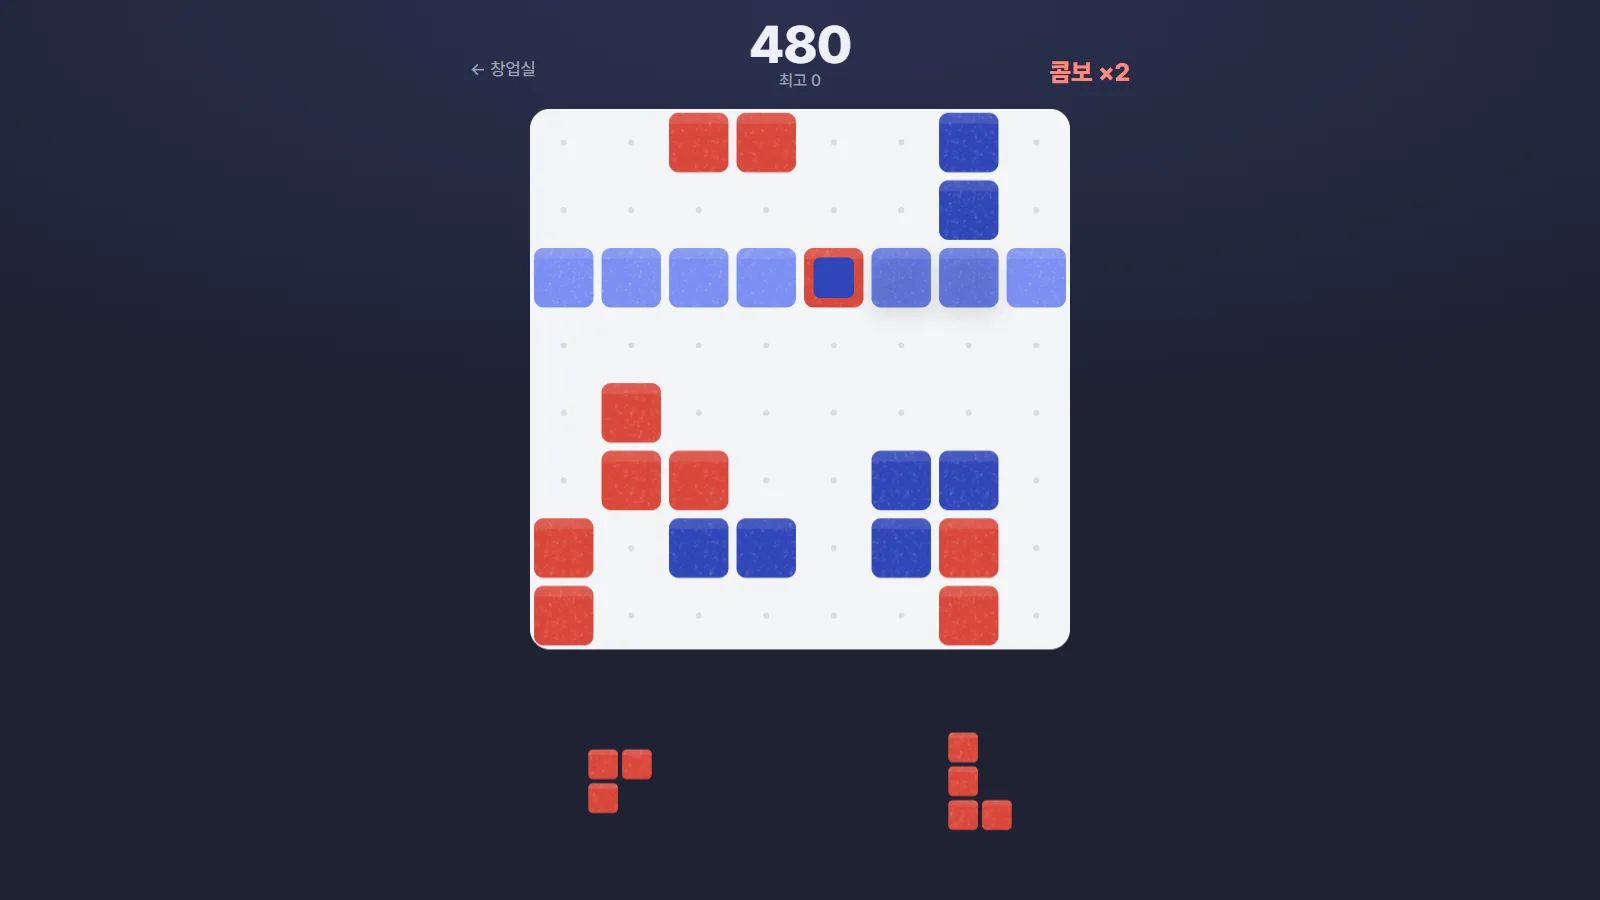
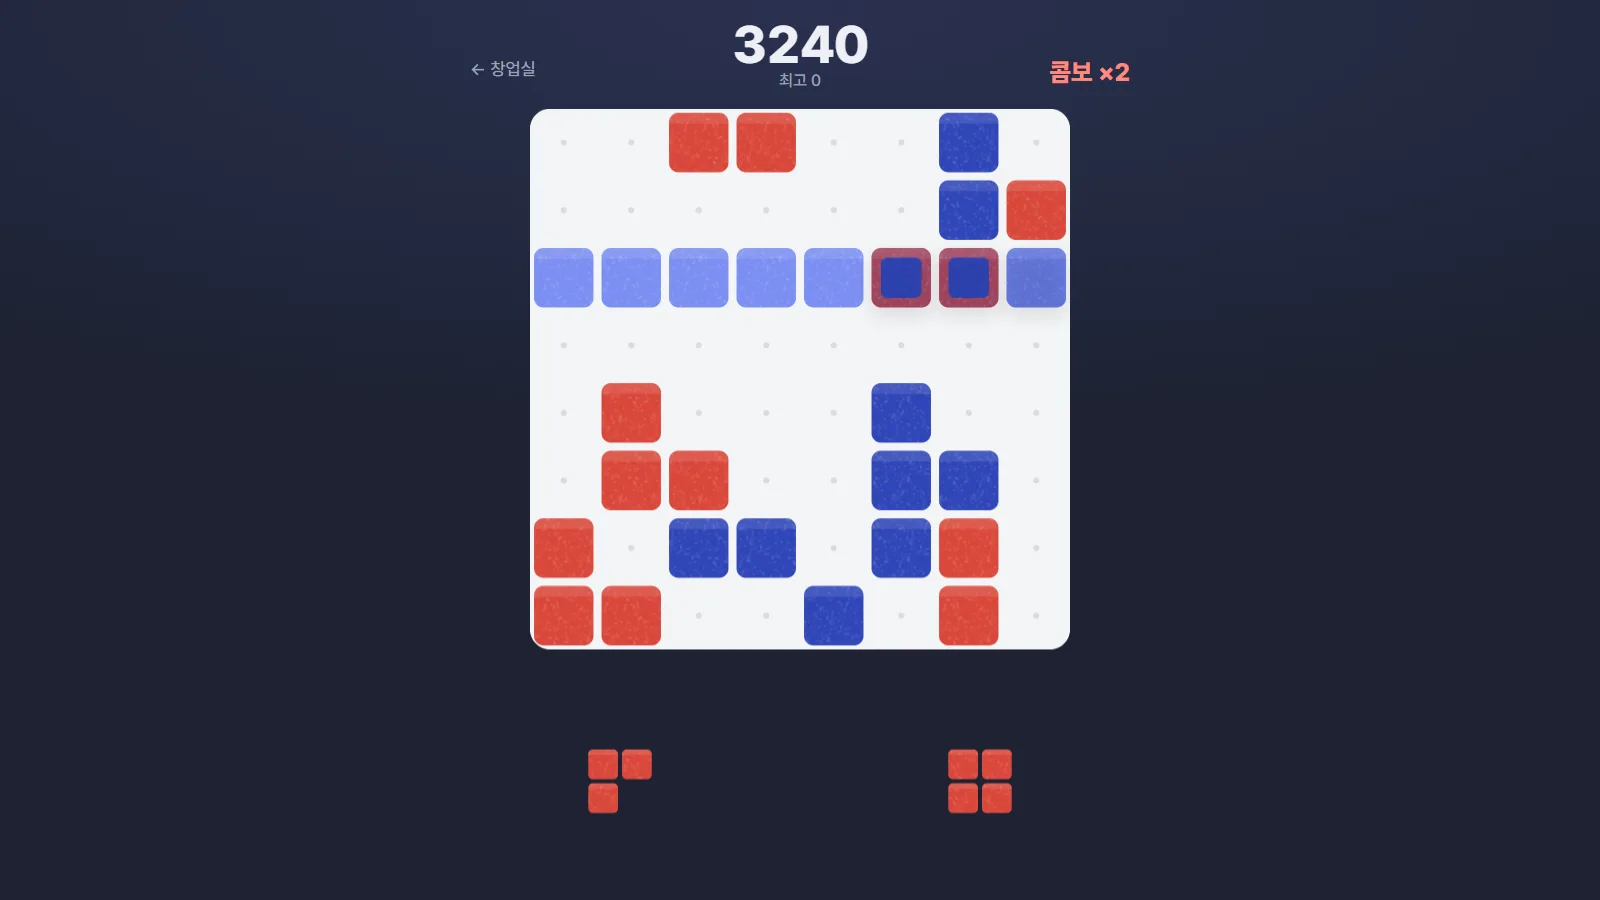
뒤집기 도장: 덧찍기 규칙으로 바꿈, 점수 10배
- 도장 색은 정해져 나옴(누르면 뒤집기 없앰) — 한 색만 찍는 꼼수가 안 됨
- 빈칸이나 다른 색 칸 위에 찍을 수 있고, 덮인 다른 색은 내 색으로 뒤집힘
- 같은 색 위엔 못 찍고, 빈칸이 한 칸은 끼어야 함 → 판이 막히면 끝
- 한 색으로 꽉 찬 줄만 지워짐, 칸 10점·줄 100/300/600…×콤보
- 못 찍는 자리는 걸리는 같은 색 칸에 흰 X 표시, 따라 하기 3단계 새로
- 실제 페이지 자동 플레이: 생각하는 봇 평균 5,428(47~162수), 막 놓기 1,076(19~34수), 10판 모두 막혀서 끝남

diff --git a/stamp/index.html b/stamp/index.html
@@ -4,7 +4,7 @@
 <meta charset="utf-8">
 <meta name="viewport" content="width=device-width,initial-scale=1,viewport-fit=cover">
 <title>뒤집기 도장</title>
-<meta name="description" content="누르면 색이 뒤집히는 도장으로 한 줄을 한 색으로 채워 지우는 퍼즐. 찍으면 맞닿은 칸도 내 색으로 물든다">
+<meta name="description" content="다른 색 위에 찍으면 내 색으로 뒤집히는 도장으로, 한 줄을 한 색으로 채워 지우는 퍼즐">
 <link rel="stylesheet" href="https://cdn.jsdelivr.net/gh/orioncactus/pretendard@v1.3.9/dist/web/variable/pretendardvariable-dynamic-subset.min.css">
 <style>
 :root { --bg: #1d2232; --paper: #f3f4f6; --blue: #2f45b8; --red: #d9473a; --on: #eef0f6; --soft: #9aa1b6 }
@@ -66,28 +66,29 @@ const norm = c => { const mx = Math.min(...c.map(p => p[0])), my = Math.min(...c
 const SHAPES = [], seen = new Set();
 for (const b of BASE) { let c = b; for (let r = 0; r < 4; r++) { c = norm(c.map(([x, y]) => [-y, x])); const k = JSON.stringify(c); if (!seen.has(k)) { seen.add(k); SHAPES.push(c) } } }
 const wOf = s => Math.max(...s.map(p => p[0])) + 1, hOf = s => Math.max(...s.map(p => p[1])) + 1;
-const newPiece = () => ({ s: SHAPES[Math.random() * SHAPES.length | 0], c: 1 + (Math.random() * 2 | 0), t: 0 });
+const newPiece = () => ({ s: SHAPES[Math.random() * SHAPES.length | 0], c: 1 + (Math.random() * 2 | 0) });
 
 // grid: 0 빈칸, 1 파랑, 2 빨강
 let grid, hand, score = 0, combo = 0, since = 0, playing = false, best = 0, tut = 0, target = null;
 let S = 40, TRAY = 0, drag = null, fx = [], pops = [], flash = [], texts = [];
-try { best = +localStorage.getItem("stamp2-best") || 0 } catch {}
+try { best = +localStorage.getItem("stamp3-best") || 0 } catch {}
 $("best").textContent = "최고 " + best;
 
-const canPlace = (s, gx, gy) => gx >= 0 && gy >= 0 && gx + wOf(s) <= N && gy + hOf(s) <= N && s.every(([x, y]) => !grid[(gy + y) * N + gx + x]);
-function fitsAnywhere(s) {
-  for (let gy = 0; gy <= N - hOf(s); gy++) for (let gx = 0; gx <= N - wOf(s); gx++) if (canPlace(s, gx, gy)) return true;
+// 찍을 수 있는 자리: 빈칸이나 다른 색 칸 위(같은 색 위는 안 됨), 빈칸이 한 칸은 끼어야 함
+function canPlace(p, gx, gy) {
+  if (gx < 0 || gy < 0 || gx + wOf(p.s) > N || gy + hOf(p.s) > N) return false;
+  let empty = 0;
+  for (const [x, y] of p.s) { const v = grid[(gy + y) * N + gx + x]; if (v === p.c) return false; if (!v) empty++ }
+  return empty > 0;
+}
+function fitsAnywhere(p) {
+  for (let gy = 0; gy <= N - hOf(p.s); gy++) for (let gx = 0; gx <= N - wOf(p.s); gx++) if (canPlace(p, gx, gy)) return true;
   return false;
 }
-// 이 자리에 찍으면: 맞닿은 다른 색 칸이 내 색으로 물들고, 한 색으로 꽉 찬 줄이 지워진다
+// 이 자리에 찍으면: 덮인 다른 색 칸은 내 색으로 뒤집히고, 한 색으로 꽉 찬 줄이 지워진다
 function tryPlace(p, gx, gy) {
-  const g = grid.slice(), own = new Set(p.s.map(([x, y]) => (gy + y) * N + gx + x)), dyed = [];
-  own.forEach(k => g[k] = p.c);
-  for (const [x, y] of p.s) for (const [dx, dy] of [[1, 0], [-1, 0], [0, 1], [0, -1]]) {
-    const X = gx + x + dx, Y = gy + y + dy, k = Y * N + X;
-    if (X < 0 || Y < 0 || X >= N || Y >= N || own.has(k) || !g[k] || g[k] === p.c) continue;
-    g[k] = p.c; dyed.push(k);
-  }
+  const g = grid.slice(), own = [], dyed = [];
+  for (const [x, y] of p.s) { const k = (gy + y) * N + gx + x; (g[k] ? dyed : own).push(k); g[k] = p.c }
   const rows = [], cols = [];
   for (let i = 0; i < N; i++) {
     let r = g[i * N], c = g[i];
@@ -97,7 +98,7 @@ function tryPlace(p, gx, gy) {
   return { g, rows, cols, dyed, own };
 }
 
-const LINE = [0, 10, 30, 60, 100, 150, 210];
+const LINE = [0, 100, 300, 600, 1000, 1500, 2100];
 function place(i, gx, gy) {
   const p = hand[i], { g, rows, cols, dyed, own } = tryPlace(p, gx, gy), now = performance.now();
   own.forEach(k => fx.push({ k, kind: "stamp", c: p.c, t0: now }));
@@ -109,7 +110,7 @@ function place(i, gx, gy) {
   rows.forEach(r => flash.push({ r, t0: now + wait })); cols.forEach(c => flash.push({ c, t0: now + wait }));
   grid = g; hand[i] = null;
   const n = rows.length + cols.length;
-  let pts = p.s.length;
+  let pts = 10 * p.s.length;
   if (n) {
     if (!tut) combo++; since = 0;
     const got = LINE[Math.min(n, 6)] * Math.max(1, combo);
@@ -124,7 +125,7 @@ function place(i, gx, gy) {
   $("combo").classList.toggle("on", combo > 1);
   if (tut) return tutNext();
   if (hand.every(h => !h)) hand = [newPiece(), newPiece(), newPiece()];
-  if (!hand.some(h => h && fitsAnywhere(h.s))) { playing = false; setTimeout(end, 1000) }
+  if (!hand.some(h => h && fitsAnywhere(h))) { playing = false; setTimeout(end, 1000) }
 }
 
 // 그리기
@@ -152,7 +153,7 @@ function hoverCell() {
   let gx = Math.round(left / S), gy = Math.round(top / S);
   if (gx < -1 || gy < -1 || gx > N - w + 1 || gy > N - h + 1) return null;
   gx = Math.max(0, Math.min(N - w, gx)); gy = Math.max(0, Math.min(N - h, gy));
-  const ok = canPlace(s, gx, gy) && (!target || (gx === target.gx && gy === target.gy && hand[drag.i].c === target.c));
+  const ok = canPlace(hand[drag.i], gx, gy) && (!target || (gx === target.gx && gy === target.gy));
   return { gx, gy, ok };
 }
 function slotRect(i) { const w = N * S / 3; return [i * w, N * S + S * .5, w, TRAY] }
@@ -183,8 +184,9 @@ function draw(now) {
   }
   if (hv) for (const [x, y] of hand[drag.i].s) {
     const X = (hv.gx + x) * S, Y = (hv.gy + y) * S;
-    if (!hv.ok) { ctx.strokeStyle = C.warn; ctx.lineWidth = 3; rr(X + 4, Y + 4, S - 8, S - 8, S * .14); ctx.stroke(); continue }
-    if (!willClear.has((hv.gy + y) * N + hv.gx + x)) inkCell(X, Y, S, INK[hand[drag.i].c], .4);
+    const k = (hv.gy + y) * N + hv.gx + x;
+    if (!hv.ok) { ctx.strokeStyle = C.warn; ctx.lineWidth = 3; rr(X + 4, Y + 4, S - 8, S - 8, S * .14); ctx.stroke(); if (grid[k] === hand[drag.i].c) { const m = S * .3; ctx.strokeStyle = "#fff"; ctx.lineWidth = Math.max(3, S * .1); ctx.lineCap = "round"; ctx.beginPath(); ctx.moveTo(X + m, Y + m); ctx.lineTo(X + S - m, Y + S - m); ctx.moveTo(X + S - m, Y + m); ctx.lineTo(X + m, Y + S - m); ctx.stroke() } continue }
+    if (!willClear.has(k) && !willDye.has(k)) inkCell(X, Y, S, INK[hand[drag.i].c], .4);
   }
   flash = flash.filter(f => now - f.t0 < 420);
   for (const f of flash) {
@@ -206,12 +208,11 @@ function draw(now) {
     if (t.sub) { ctx.font = `800 ${S * .4}px Pretendard, system-ui, sans-serif`; ctx.strokeText(t.sub, X, Y + S * .6); ctx.fillStyle = INK[2]; ctx.fillText(t.sub, X, Y + S * .6) }
     ctx.globalAlpha = 1;
   }
-  // 조각 칸: 누르면 색이 뒤집히고, 어디에도 못 놓는 조각은 흐리게
+  // 조각 칸: 어디에도 못 놓는 조각은 흐리게
   for (let i = 0; i < 3; i++) {
     const p = hand[i]; if (!p || (drag && drag.moved && drag.i === i)) continue;
-    const [sx, sy, sw, sh] = slotRect(i), cs = S * .5, w = wOf(p.s) * cs, h = hOf(p.s) * cs, a = fitsAnywhere(p.s) ? 1 : .28;
-    const t = Math.min(1, (now - p.t) / 260), col = t < .5 && p.from ? INK[p.from] : INK[p.c], sq = Math.abs(Math.cos(t * Math.PI));
-    for (const [x, y] of p.s) inkCell(sx + (sw - w) / 2 + x * cs, sy + (sh - h) / 2 + y * cs, cs, col, a, 1, t < 1 ? sq : 1);
+    const [sx, sy, sw, sh] = slotRect(i), cs = S * .5, w = wOf(p.s) * cs, h = hOf(p.s) * cs, a = fitsAnywhere(p) ? 1 : .28;
+    for (const [x, y] of p.s) inkCell(sx + (sw - w) / 2 + x * cs, sy + (sh - h) / 2 + y * cs, cs, INK[p.c], a);
   }
   if (drag && drag.moved) {
     const p = hand[drag.i], w = wOf(p.s), h = hOf(p.s);
@@ -235,7 +236,7 @@ function size() {
 }
 addEventListener("resize", size);
 
-// 조각 칸을 톡 누르면 색 뒤집기, 끌면 놓기
+// 조각 칸을 끌어 놓기
 const pos = e => { const r = cv.getBoundingClientRect(); return [e.clientX - r.left, e.clientY - r.top] };
 cv.addEventListener("pointerdown", e => {
   if (!playing) return;
@@ -258,37 +259,36 @@ cv.addEventListener("pointerup", () => {
   if (!drag) return;
   const d = drag, hv = hoverCell();
   drag = null;
-  if (!d.moved) { const p = hand[d.i]; p.from = p.c; p.c = 3 - p.c; p.t = performance.now(); if (tut === 2) tip("이제 빈칸에 찍어 줄을 채워 보세요"); return }
   if (hv && hv.ok && playing) place(d.i, hv.gx, hv.gy);
 });
 cv.addEventListener("pointercancel", () => drag = null);
 
 // 처음 한 번: 세 수를 따라 해 보며 규칙을 익힌다
-const H3 = [[0, 0], [1, 0], [2, 0]], ONE = [[0, 0]];
+const H3 = [[0, 0], [1, 0], [2, 0]];
 function tip(t) { $("tip").textContent = t || ""; $("tip").hidden = !t }
 function tutStep(n) {
   tut = n; grid = new Array(N * N).fill(0);
   if (n === 1) {
     [0, 1, 2, 6, 7].forEach(x => grid[4 * N + x] = 1);
-    hand = [null, { s: H3, c: 1, t: 0 }, null]; target = { i: 1, gx: 3, gy: 4, c: 1 };
+    hand = [null, { s: H3, c: 1 }, null]; target = { i: 1, gx: 3, gy: 4 };
     tip("한 줄을 한 색으로 채우면 지워져요");
   } else if (n === 2) {
-    [0, 1, 2, 3, 4].forEach(x => grid[4 * N + x] = 2);
-    hand = [null, { s: H3, c: 1, t: 0 }, null]; target = { i: 1, gx: 5, gy: 4, c: 2 };
-    tip("도장을 톡 누르면 색이 뒤집혀요");
+    [0, 1, 2, 3, 4].forEach(x => grid[4 * N + x] = 1); grid[4 * N + 5] = grid[4 * N + 6] = 2;
+    hand = [null, { s: H3, c: 1 }, null]; target = { i: 1, gx: 5, gy: 4 };
+    tip("다른 색 위에 찍으면 내 색으로 뒤집혀요");
   } else {
-    [0, 1, 2, 4, 5, 6, 7].forEach(x => grid[4 * N + x] = 1); grid[4 * N + 2] = 2;
-    hand = [null, { s: ONE, c: 1, t: 0 }, null]; target = { i: 1, gx: 3, gy: 4, c: 1 };
-    tip("찍으면 맞닿은 칸도 내 색으로 물들어요");
+    [0, 1, 2, 3, 4].forEach(x => grid[4 * N + x] = 2); grid[4 * N + 5] = grid[4 * N + 6] = 1;
+    hand = [null, { s: H3, c: 2 }, null]; target = { i: 1, gx: 5, gy: 4 };
+    tip("같은 색 위엔 못 찍고, 빈칸이 한 칸은 끼어야 해요");
   }
 }
 function tutNext() {
   if (tut < 3) { const n = tut + 1; tut = 9; return setTimeout(() => tutStep(n), 1000) }
   tut = 0; target = null; playing = false;
-  try { localStorage.setItem("stamp2-tut", 1) } catch {}
+  try { localStorage.setItem("stamp3-tut", 1) } catch {}
   setTimeout(() => {
     tip("");
-    menu(`<p style="color:var(--on);font-weight:700">색이 섞인 채 꽉 찬 줄은 안 지워져요.<br>놓을 곳이 없으면 끝나요.</p><button id="go">시작</button>`);
+    menu(`<p style="color:var(--on);font-weight:700">색이 섞인 줄은 안 지워져요.<br>놓을 곳이 없으면 끝나요.</p><button id="go">시작</button>`);
   }, 1000);
 }
 
@@ -310,16 +310,16 @@ function menu(html) {
 }
 function end() {
   playing = false; drag = null;
-  if (score > best) { best = score; try { localStorage.setItem("stamp2-best", best) } catch {} }
+  if (score > best) { best = score; try { localStorage.setItem("stamp3-best", best) } catch {} }
   $("best").textContent = "최고 " + best;
   menu(`<p style="color:var(--on);font-weight:700">놓을 곳이 없어요</p><div class="big">${score}</div><p>최고 ${best}</p><button id="go">다시</button>`);
 }
 
 let learned = false;
-try { learned = !!localStorage.getItem("stamp2-tut") } catch {}
+try { learned = !!localStorage.getItem("stamp3-tut") } catch {}
 size();
 grid = new Array(N * N).fill(0); hand = [null, null, null];
-menu(`<h1>뒤집기 <i>도</i><span>장</span></h1><p>한 줄을 한 색으로 채우면 지워져요. 도장은 누르면 색이 뒤집혀요</p><button id="go">시작</button>${learned ? '<button class="link" id="how">방법 다시 보기</button>' : ""}`);
+menu(`<h1>뒤집기 <i>도</i><span>장</span></h1><p>한 줄을 한 색으로 채우면 지워져요.<br>다른 색 위에 찍으면 내 색으로 뒤집혀요</p><button id="go">시작</button>${learned ? '<button class="link" id="how">방법 다시 보기</button>' : ""}`);
 if (!learned) $("go").onclick = lesson;
 requestAnimationFrame(loop);
 </script>

diff --git a/index.html b/index.html
@@ -314,7 +314,7 @@ figcaption { margin-top: 10px; color: var(--muted) }
     <a class="art mask" href="stamp/"><img src="hub/shots/stamp.webp" alt="뒤집기 도장 판, 파란 도장을 대자 빨간 칸 하나가 물들며 한 줄이 지워질 자리로 밝게 표시된 모습" width="1600" height="900" loading="lazy"></a>
     <div class="txt">
       <h3 class="rise">뒤집기 도장</h3>
-      <p class="rise" style="--i:1">누르면 파랑·빨강이 뒤집히는 도장으로 한 줄을 한 색으로 채워 지우는 퍼즐. 찍으면 맞닿은 칸도 내 색으로 물들고, 색이 섞인 채 꽉 찬 줄은 안 지워져 판이 막히면 끝납니다.</p>
+      <p class="rise" style="--i:1">파랑·빨강 도장을 다른 색 위에 덧찍으면 내 색으로 뒤집히는 퍼즐. 한 줄을 한 색으로 채우면 지워지고, 같은 색 위엔 못 찍어서 판이 막히면 끝납니다.</p>
       <p class="meta mono rise" style="--i:2">HTML 캔버스 · 배치 퍼즐 · 데모</p>
       <a class="more rise" style="--i:3" href="stamp/">바로 하기 <span class="ic" data-icon="arrow-right" data-size="18">→</span></a>
     </div>
